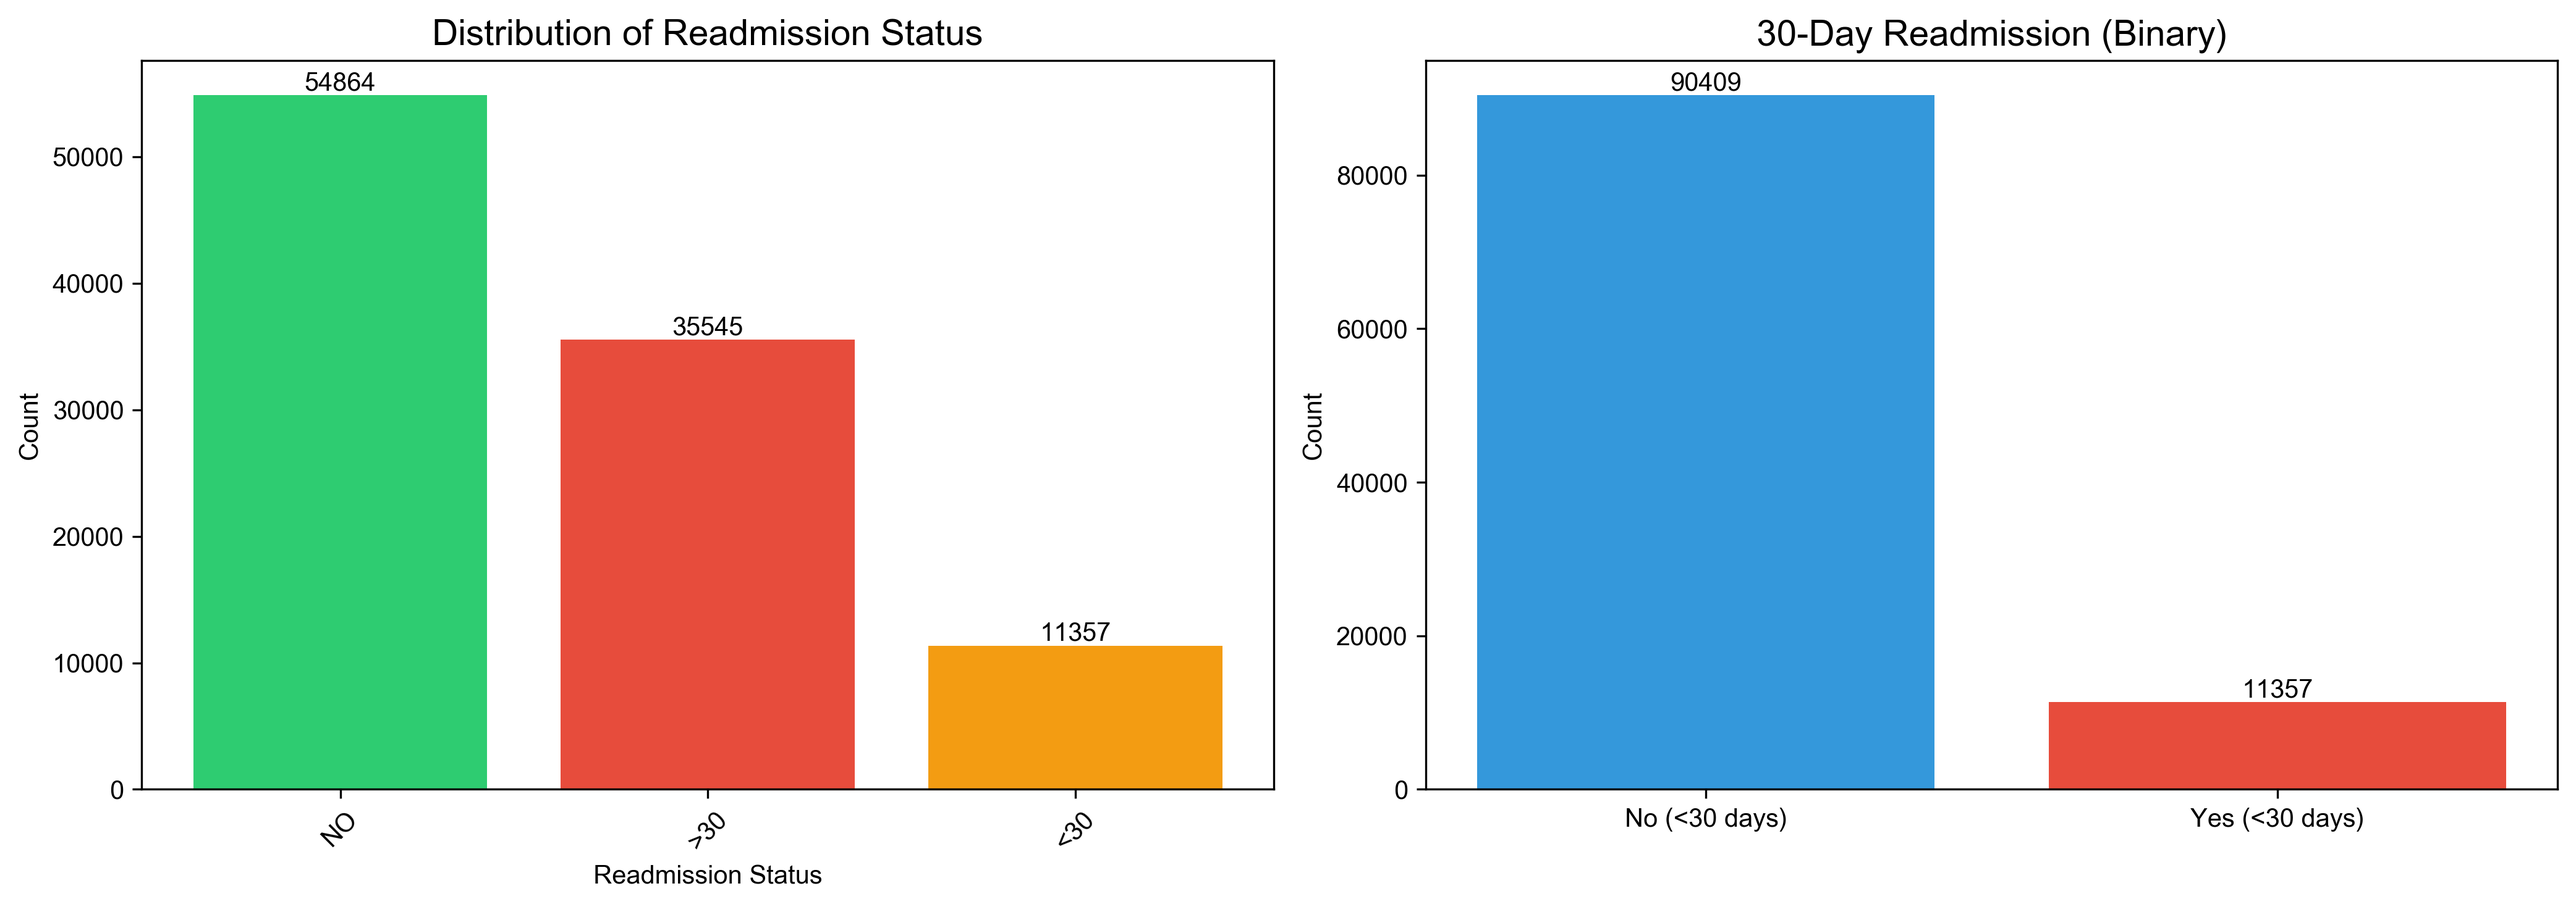
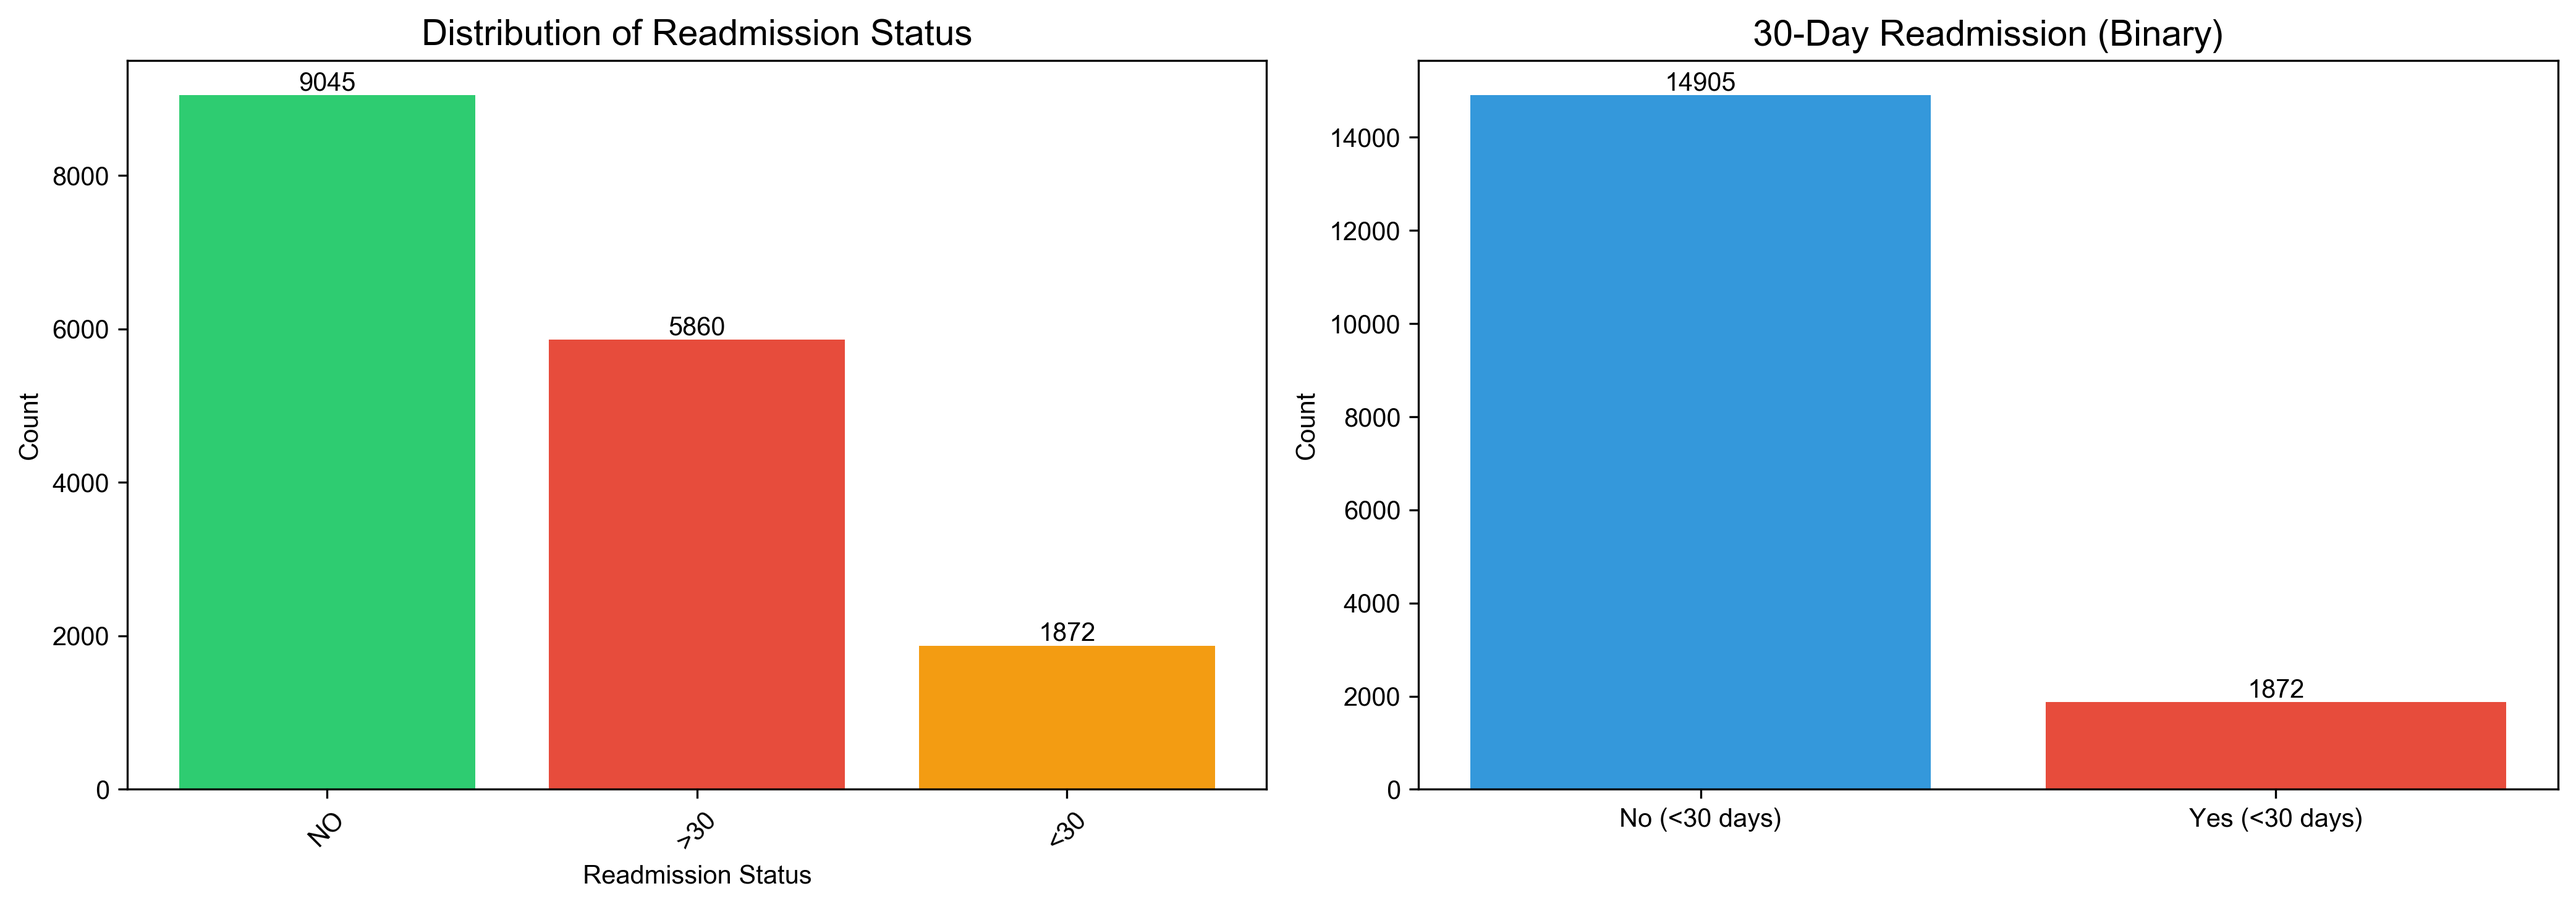
成员A: 更新图表和分析结论以反映抽样后的数据
- 重新生成所有EDA图表（基于16,777条记录的抽样数据）
- 更新图表分析结论中的具体数字（从101,766改为16,777）
- 更新给成员B文档中的数据规模信息
- 更新项目文件说明中的数据规模
- 所有比例保持不变（11.16%再入院率），符合分层抽样预期

diff --git a/docs/给成员B_建模变量选择说明.md b/docs/给成员B_建模变量选择说明.md
@@ -4,8 +4,9 @@
 
 ### 数据文件位置
 - **清洗后的数据**：`data/processed/diabetic_data_cleaned.csv`
-- **数据规模**：101,766条记录，53个变量
-- **数据质量**：已通过验证，关键变量无缺失值
+- **数据规模**：16,777条记录，53个变量
+- **数据来源**：通过分层抽样从原始101,766条记录中抽取（符合10MB要求）
+- **数据质量**：已通过验证，关键变量无缺失值，分布特征保持完整
 
 ### 数据清洗情况
 - ✅ 已删除重复记录（0条）
@@ -21,8 +22,8 @@
 - **变量名**：`readmitted_30d`
 - **类型**：二分类变量（0/1）
 - **取值**：
-  - `0` = 未在30天内再入院（90,409例，88.84%）
-  - `1` = 30天内再入院（11,357例，11.16%）
+  - `0` = 未在30天内再入院（14,905例，88.84%）
+  - `1` = 30天内再入院（1,872例，11.16%）
 - **数据不平衡**：存在类别不平衡，建议考虑处理策略（如SMOTE、类别权重等）
 
 ### 2. 回归任务：住院天数预测

diff --git a/docs/项目文件说明.md b/docs/项目文件说明.md
@@ -22,10 +22,11 @@
 
 ### data/ 目录
 - `raw/diabetes_130_us_hospitals_1999_2008/` - 原始数据目录
-  - `diabetic_data.csv` - 原始糖尿病住院数据（101,766条记录，50个变量）
+  - `diabetic_data.csv` - 原始糖尿病住院数据（101,766条记录，50个变量，18MB）
+  - `diabetic_data_sampled.csv` - 抽样后的数据（16,777条记录，50个变量，2.9MB，符合10MB要求）
   - `IDS_mapping.csv` - ID映射表（入院类型、出院去向、入院来源的映射关系）
 - `processed/` - 清洗后的数据
-  - `diabetic_data_cleaned.csv` - 清洗后的数据（101,766条记录，53个变量）
+  - `diabetic_data_cleaned.csv` - 清洗后的数据（16,777条记录，53个变量，4.0MB）
 
 ### docs/ 目录
 - `02_variable_documentation.csv` - 变量说明表（用于报告）

diff --git a/docs/图表分析结论.md b/docs/图表分析结论.md
@@ -8,8 +8,9 @@
 **文件**: `01_readmission_distribution.png`
 
 **分析结论**：
-- 在101,766例糖尿病患者住院记录中，30天内再入院率为11.16%（11,357例），30天后再入院率为34.93%（35,545例），未再入院率为53.91%（54,864例）。
+- 在16,777例糖尿病患者住院记录中，30天内再入院率为11.16%（1,872例），30天后再入院率为34.93%（5,860例），未再入院率为53.91%（9,045例）。
 - 这表明约一半的患者在出院后会发生再入院，其中约1/5在30天内再入院，提示需要重点关注早期再入院风险。
+- **注**：数据通过分层抽样从原始101,766条记录中抽取，保持了再入院分布的完整性。
 
 ---
 
